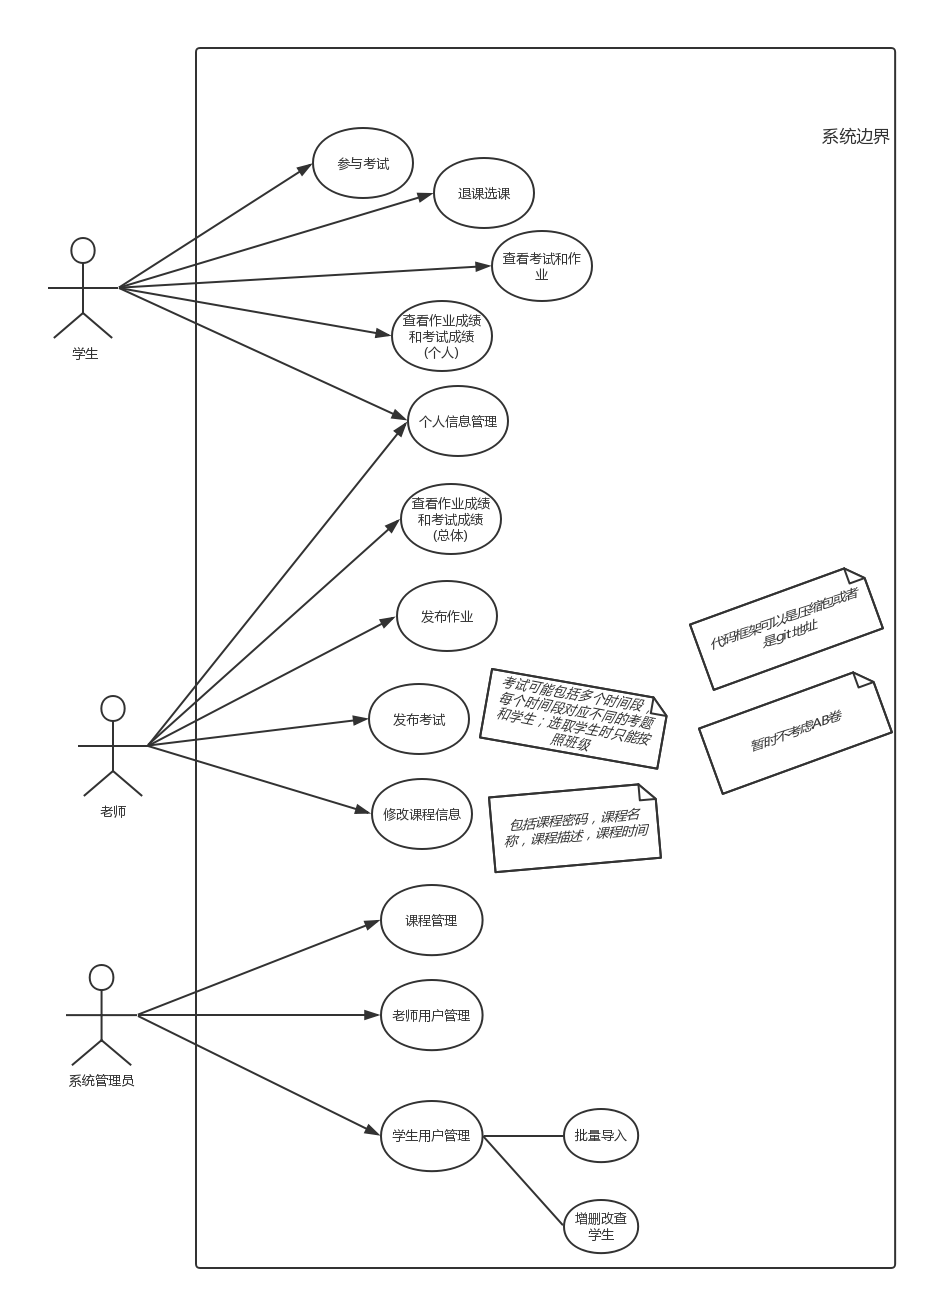
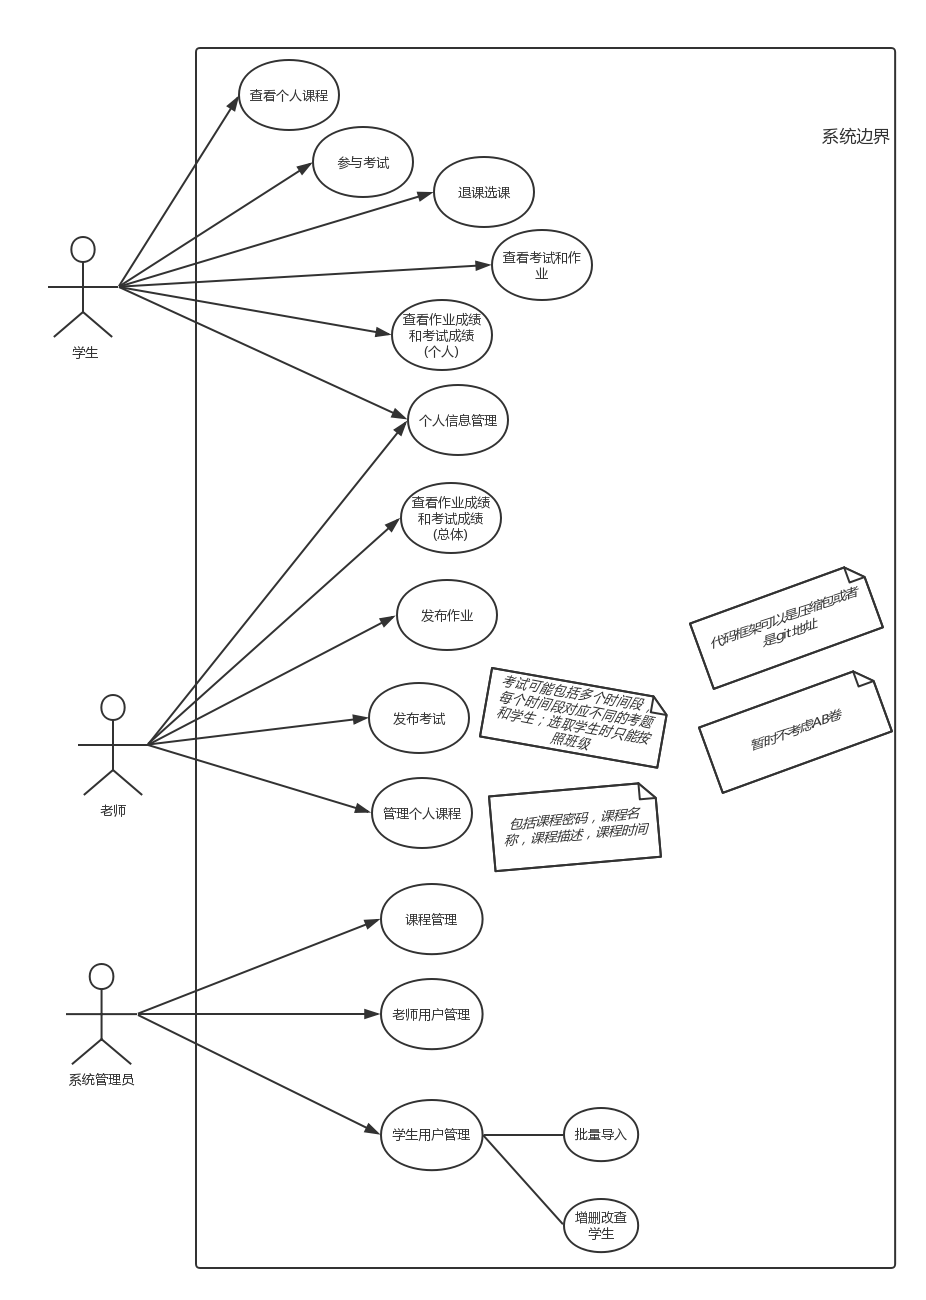
复杂业务过程描述

diff --git a/复杂业务过程叙述.md b/复杂业务过程叙述.md
@@ -1,0 +1,40 @@
+# 复杂业务过程叙述
+
+## 作业流程
+
+>1. 老师发布作业：老师选择作业名称，截止日期，然后选择题目描述和题目代码框架，代码框架的格式可以是一个老师自己的git仓库地址，也可以是一个压缩包，也可以没有。之后系统会生成一次作业，并利用代码框架(压缩包即解压，git仓库地址即fork)和题目描述在课程对应的一个organization账户下，生成一个作业项目。
+>
+>
+>   需要做作业的学生默认为所有选择了该课程的学生。
+>
+>2. 在只有使用人数不多的情况下，系统自动学生对应的git账号下fork该作业项目，并通知学生有一次新的作业。如果不能做到，就在通知中附上该作业项目的git地址，让学生fork到自己的仓库中。之后学生会pull此项目到本地，开始做作业。
+>
+>3. 学生做完作业之后，将作业push到自己的git上。
+>
+>4. deadline到的时候，系统自动调用代码分析程序的接口，将此次作业所有的学生的git地址作为参数。
+>
+>5. 之后代码分析程序会分析git地址中的项目。
+>
+>6. 老师请求查看这次作业的情况：系统调用代码分析程序的接口，将***作为参数，获得这次作业的结果列表，列表的每一项是一个学生的作业情况，每个学生的作业情况包括成绩和详细分析(url)。系统在对成绩进行过统计分析之后，将统计分析的结果和结果这次作业的结果列表返回给老师。
+>
+>7. 学生请求查看这次作业的情景：系统调用代码分析程序的接口，将***作为参数，获得这次作业的结果，包括成绩和详细分析(url)。
+>
+>8. 正常流程结束
+
+## 考试流程
+
+>1. 老师发布考试：老师填写考试名称和考试备注信息，然后可以选择多个时间段。时间段内容包括：考试开始时间和结束时间；考试班级(仅能选择系统中已有的班级)；考试描述和代码框架(同发布作业)。这么做的原因是为了方便老师分不同班级不同试题进行考试。
+>2. 学生参与考试：考试时间开始之后(或者之前一会)，系统提供接口给学生下载config，下载完成之后学生本地的环境会自动fork organization账户下的这次考试到学生的git账户下，并pull到本地，之后参与考试。
+>3. 考试时间结束后的流程和作业类似。
+
+## 账户管理流程
+
+>1. 学生账号由系统分配(管理员在学期初导入)。学生在系统中的账户和gitlab账户绑定，用户名均为学号，系统对学生的账号有管理权
+>2. 某课程的学生名单推算：课程有年级/学期,如大二/一学期,学生有年级属性.每过一个学期,系统会删除学生之前的课程,并加入本学期的所有课程.
+>   特殊情况处理:
+>   2.1.重修/提前选课: 通过选课码加入课程
+>   2.2.转院 : 通过新建用户,设置其年级属性,使系统可以推断出他的课程
+>   2.3.退选(如已经提前修过该课) : 对课程进行退选,可以填写理由,若管理员同意则退选
+
+
+
